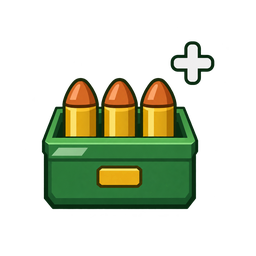
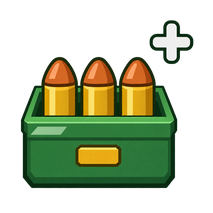
Version 0.10.33
Talent-Symbol Munitionslager 20 % größer (Wunsch des Nutzers): nur der leere Rand der gelieferten
Kachel ist abgeschnitten (mittlere 213 × 213 Pixel), das Motiv bleibt vollständig und unverändert.

Claude-Session: https://claude.ai/code/session_01NwX5XbY2Qvumx1eymUyNiA

diff --git a/docs/HELDEN_UND_SCHUESSE.md b/docs/HELDEN_UND_SCHUESSE.md
@@ -167,6 +167,8 @@ Champion nicht dabei ist.
 - Testkonto „alles frei“: fehlende Talente setzt das Spiel beim Laden auf Stufe 5, so sind die neuen sofort testbar.
 - Symbole: gemalt von ChatGPT (`Vorlage_Raw/Talente_v3/`, seit 0.10.32), dazu ein neues Munitionslager; ganze Kachel
   256 × 256 mit Rand und eingemaltem Plus, auf der Talente-Seite als 44-Punkte-Feld (verlustfreies WebP).
+  Munitionslager auf Wunsch (20.11.2026) 20 % größer: nur der leere Rand ist abgeschnitten (mittlere 213 × 213 der
+  Kachel), das Motiv bleibt vollständig; bei 44 Punkten etwa 36 × 35 Punkte wie die anderen Symbole.
 - Balance-Labor: `--talente=neu:5` (alle vier) oder `--talente=bollwerk:5,schwerefeld:0` setzt Stufen nach dem Profil;
   `scripts/talent-lab.py` vergleicht die Varianten. Die Profile verteilen ihre Talente reihum auf jetzt 12 statt 8
   Talente, wie beim echten Ziehen.
